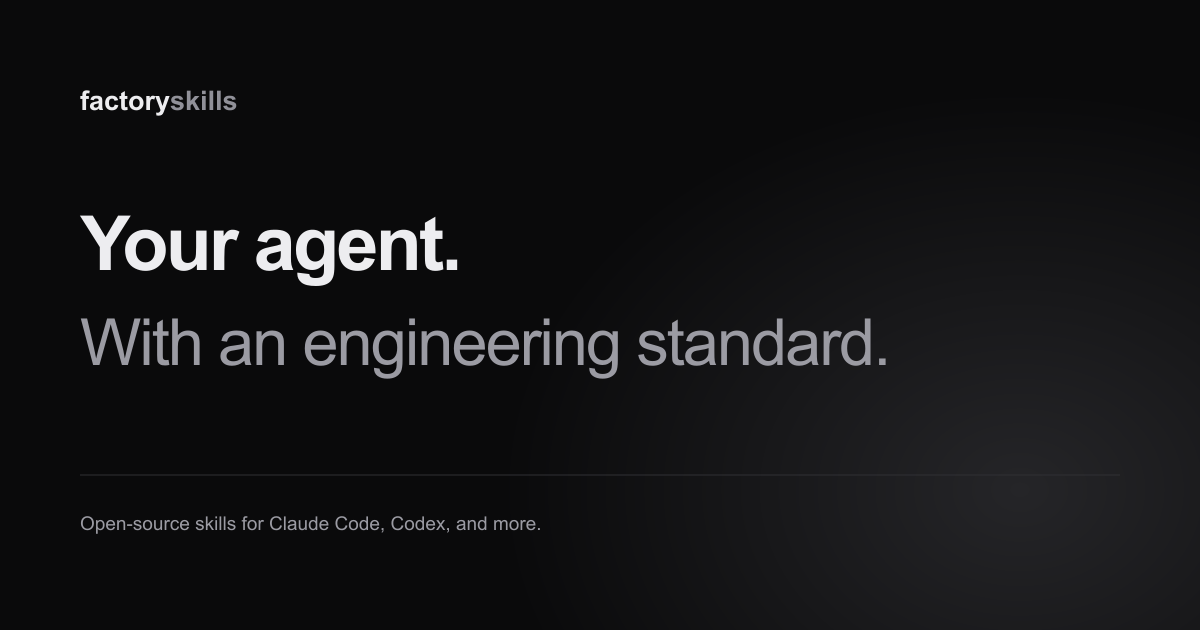
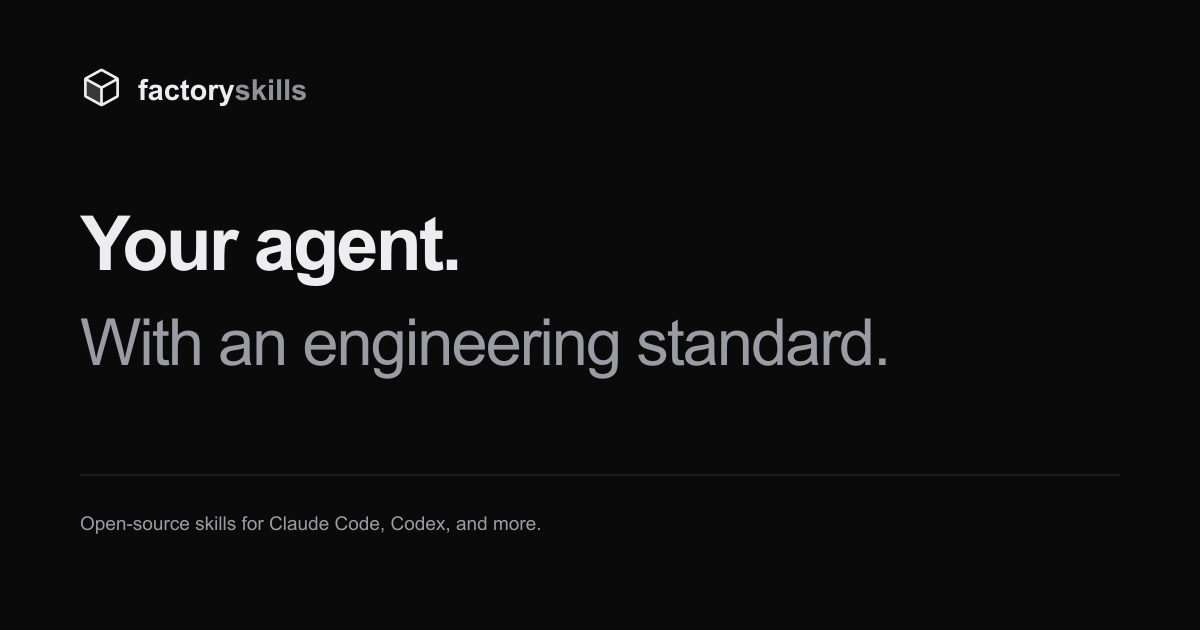
fix: unify Factory Skills branding and use official vendor marks

Changed region(s): [[0.7708, 0.6635, 0.925, 0.8746], [0.0617, 0.0905, 0.2775, 0.181]]

diff --git a/components/home.tsx b/components/home.tsx
@@ -1,7 +1,8 @@
 'use client';
 import { useState } from 'react';
 import Link from 'next/link';
-import { ArrowRight, ArrowUpRight, Code, Stack, Database, ShieldCheck, GitBranch, Lightning, Check, Plus, Terminal, GithubLogo, BookOpen, MagnifyingGlass, Compass, Crosshair, Cube } from '@phosphor-icons/react';
+import { ArrowRight, ArrowUpRight, Code, Stack, Database, ShieldCheck, GitBranch, Lightning, Check, Plus, Terminal, GithubLogo, BookOpen, MagnifyingGlass, Compass, Crosshair } from '@phosphor-icons/react';
+import { BrandMark } from './brand-mark';
 import { companions, skills, REPO, install } from '@/lib/skills';
 import { DemoDialog, InstallTabs } from './ui';
 const icons = {code:Code,stack:Stack,database:Database,shield:ShieldCheck,branch:GitBranch,lightning:Lightning};
@@ -9,9 +10,9 @@ const stages=[{name:'Understand', text:'Read the code before changing it.', icon
 export function Home(){const [filter,setFilter]=useState('All skills');const [query,setQuery]=useState('');const filtered=skills.filter(s=>(filter==='All skills'||s.category===filter)&&`${s.name} ${s.description}`.toLowerCase().includes(query.toLowerCase()));return <main id="main">
 <section className="hero container"><a className="announcement" href="#skills"><span>Built for the way you build</span><span className="announcement-divider"/>Explore the skills <ArrowRight size={13}/></a><h1>Your agent.<br/><span>With an engineering standard.</span></h1><div className="hero-bottom"><p>Turn capable AI into a careful engineer. Open-source skills that read your codebase, respect your patterns, and prove their work.</p><div className="hero-actions"><a className="button primary" href="#get-started">Start building better <ArrowRight size={16}/></a><DemoDialog/></div></div>
 <div className="hero-showcase"><div className="demo-window"><div className="demo-window-top"><span><Terminal size={14}/> A better way to build</span><span>implement-feature</span></div><div className="demo-image"><img src="/demo-static.svg" width="860" height="410" alt="Factory Skills example: install a skill, ask for a feature, and verify the result" fetchPriority="high"/></div><div className="demo-caption"><span>Read. Reuse. Implement. Verify.</span><a href="/skills/implement-feature/">Explore the workflow <ArrowUpRight size={13}/></a></div></div><div className="workflow-rail"><span className="eyebrow">ENGINEERING, BUILT IN</span>{stages.map((s,i)=><div className="workflow-stage" key={s.name}><div className="stage-icon"><s.icon size={21} weight="light"/></div><div><span className="stage-number">0{i+1}</span><h2>{s.name}</h2><p>{s.text}</p></div></div>)}<a className="text-link" href="#how-it-works">Under the hood <ArrowRight size={14}/></a></div></div>
-<div className="compatibility"><span>Works where you already build</span><div><span className="agent-word"><span className="claude-symbol">✳</span> Claude Code</span><span className="agent-word"><Cube size={24} weight="duotone"/>Codex</span><span className="other-agent">And other skill-compatible agents <ArrowUpRight size={12}/></span></div></div></section>
+<div className="compatibility"><span>Works where you already build</span><div><span className="agent-word"><span className="vendor-mark claude-mark" aria-hidden="true"/> Claude Code</span><span className="agent-word"><span className="vendor-mark openai-mark" aria-hidden="true"/>Codex</span><span className="other-agent">And other skill-compatible agents <ArrowUpRight size={12}/></span></div></div></section>
 <section id="skills" className="skills-section section container"><div className="section-heading"><span className="eyebrow">THE COLLECTION</span><h2>Small skills.<br/>A higher standard.</h2><p>From the first endpoint to your next big feature.<br className="desktop-break"/> Pick the workflow your project needs.</p></div><div className="collection-toolbar"><div className="filter-tabs" aria-label="Filter skills">{['All skills','Build','Foundation','Understand'].map(f=><button onClick={()=>setFilter(f)} key={f} aria-pressed={filter===f} className={filter===f?'active':''}>{f}{f==='All skills'&&<span>6</span>}</button>)}</div><label className="skill-search"><MagnifyingGlass size={16}/><input type="search" value={query} onChange={e=>setQuery(e.target.value)} placeholder="Find a skill…" aria-label="Search skills"/></label></div><div className="skill-grid">{filtered.map((s)=>{const Icon=icons[s.icon as keyof typeof icons];return <Link key={s.name} href={`/skills/${s.name}/`} className="skill-card"><div className="skill-card-top"><span className="skill-icon"><Icon size={23} weight="light"/></span><span className="skill-category">{s.category}</span><ArrowUpRight size={17} className="card-arrow"/></div><code>/{s.name}</code><h3>{s.title}</h3><p>{s.description}</p><span className="card-bottom">Explore skill <ArrowRight size={14}/></span></Link>})}</div>{filtered.length===0&&<div className="empty-state"><MagnifyingGlass size={28}/><h3>No matching skills</h3><p>Try another term or browse the full collection.</p><button className="button secondary" onClick={()=>{setQuery('');setFilter('All skills')}}>Show all skills</button></div>}<div className="collection-more"><Link className="text-link" href="/skills/">Browse every skill and all the examples <ArrowRight size={14}/></Link><Link className="text-link muted" href="/learn/">Learn the workflow <ArrowRight size={14}/></Link></div><div className="companions"><div><span className="companion-icon"><Plus size={19}/></span><h3>The rest of your toolkit.</h3><p>Companion skills for planning, checking, and refining.</p></div><div className="companion-links">{companions.map(([name,desc])=><a key={name} title={desc} href={`/skills/${name}/`}><code>/{name}</code><ArrowUpRight size={12}/></a>)}</div></div></section>
-<section id="how-it-works" className="principles-section section"><div className="container"><div className="section-heading"><span className="eyebrow">LESS CORRECTING. MORE CREATING.</span><h2>Good code starts<br/>before the first line.</h2><p>A skill is a reusable workflow for your coding agent.<br className="desktop-break"/> It brings the habits you expect from a thoughtful engineer.</p></div><div className="principle-layout"><div className="principle-visual"><div className="orbit orbit-one"/><div className="orbit orbit-two"/><div className="orbit orbit-three"/><div className="core-cube"><Cube size={63} weight="duotone"/></div><span className="orbit-label orbit-label-one"><BookOpen size={15}/>Your conventions</span><span className="orbit-label orbit-label-two"><GitBranch size={15}/>Your codebase</span><span className="orbit-label orbit-label-three"><Check size={15}/>Real checks</span><span className="visual-caption">Your project is the source of truth.</span></div><div className="principle-list">{[{icon:Compass,title:'Context before code.',body:'The agent finds similar features and traces how they work. Your conventions come first.'},{icon:Stack,title:'Reuse before reinventing.',body:'Existing helpers, components, and patterns get used. New abstractions need a reason.'},{icon:Crosshair,title:'Evidence before “done.”',body:'A check only counts when it runs. The agent reports what passed and what it couldn’t verify.'}].map(p=><div className="principle" key={p.title}><p.icon size={21}/><div><h3>{p.title}</h3><p>{p.body}</p></div></div>)}</div></div></div></section>
+<section id="how-it-works" className="principles-section section"><div className="container"><div className="section-heading"><span className="eyebrow">LESS CORRECTING. MORE CREATING.</span><h2>Good code starts<br/>before the first line.</h2><p>A skill is a reusable workflow for your coding agent.<br className="desktop-break"/> It brings the habits you expect from a thoughtful engineer.</p></div><div className="principle-layout"><div className="principle-visual"><div className="orbit orbit-one"/><div className="orbit orbit-two"/><div className="orbit orbit-three"/><div className="core-cube"><BrandMark size={63}/></div><span className="orbit-label orbit-label-one"><BookOpen size={15}/>Your conventions</span><span className="orbit-label orbit-label-two"><GitBranch size={15}/>Your codebase</span><span className="orbit-label orbit-label-three"><Check size={15}/>Real checks</span><span className="visual-caption">Your project is the source of truth.</span></div><div className="principle-list">{[{icon:Compass,title:'Context before code.',body:'The agent finds similar features and traces how they work. Your conventions come first.'},{icon:Stack,title:'Reuse before reinventing.',body:'Existing helpers, components, and patterns get used. New abstractions need a reason.'},{icon:Crosshair,title:'Evidence before “done.”',body:'A check only counts when it runs. The agent reports what passed and what it couldn’t verify.'}].map(p=><div className="principle" key={p.title}><p.icon size={21}/><div><h3>{p.title}</h3><p>{p.body}</p></div></div>)}</div></div></div></section>
 <section id="get-started" className="getting-started section container"><div className="get-started-copy"><span className="eyebrow">FROM HERE TO YOUR NEXT FEATURE</span><h2>One command.<br/>Better defaults.</h2><p>No new editor. No new platform.<br/>Add a skill to the agent you already use.</p><div className="mini-steps"><div><span>01</span><div><h3>Install a skill</h3><p>Choose a workflow. Add it to your project.</p></div></div><div><span>02</span><div><h3>Ask in plain words</h3><p>Use a slash command or mention the skill.</p></div></div><div><span>03</span><div><h3>Review the result</h3><p>Get a change that fits, with checks to back it up.</p></div></div></div><a className="text-link" href={`${REPO}#install-options`}>All installation options <ArrowUpRight size={14}/></a></div><InstallTabs/></section>
 <section id="questions" className="faq-section section container"><div className="section-heading"><span className="eyebrow">A FEW MORE DETAILS</span><h2>Good questions.</h2></div><div className="faq-list">{[['What exactly is an agent skill?','A skill is a set of reusable instructions and supporting resources that your agent loads for a task. Factory Skills gives those tasks a workflow: inspect the code, follow existing conventions, implement, and verify.'],['Which coding agents can I use?','The repository provides install commands for Claude Code and Codex. Other agents supported by the skills CLI can also use the workflows. Choose your agent during installation.'],['Can I use just one skill?','Yes. Every skill is independently installable. For larger work, hungry-jack coordinates companion skills; its documented install command includes those companions.'],['Will this override my project conventions?','Your project wins. The skills follow your codebase, AGENTS.md, and CLAUDE.md instructions before their own defaults. Review generated changes and check the agent’s verification report.'],['Is it free to use?','Factory Skills is open source under the MIT license. Your coding agent or model provider may charge for usage. Repository behavior evaluations also use billed model runs.']].map(([q,a])=><details key={q}><summary>{q}<Plus size={17}/></summary><p>{a}</p></details>)}</div></section>
-<section className="closing container"><div className="closing-top"><span className="brand-mark"><Cube size={29} weight="duotone"/></span><span className="eyebrow">OPEN SOURCE. OPEN TO YOU.</span></div><h2>Better agents.<br/><span>Built together.</span></h2><p>Use a skill. Make it better. Share what you learn.<br/>Good engineering is a collective effort.</p><div className="hero-actions"><a className="button primary" href={REPO} target="_blank" rel="noreferrer"><GithubLogo weight="fill" size={18}/>Explore on GitHub <ArrowUpRight size={15}/></a><Link className="button secondary" href="/contribute/">Become a contributor <ArrowRight size={15}/></Link></div><div className="license-note">Free to use. Yours to improve. MIT licensed.</div></section></main>}
+<section className="closing container"><div className="closing-top"><span className="brand-mark"><BrandMark size={29}/></span><span className="eyebrow">OPEN SOURCE. OPEN TO YOU.</span></div><h2>Better agents.<br/><span>Built together.</span></h2><p>Use a skill. Make it better. Share what you learn.<br/>Good engineering is a collective effort.</p><div className="hero-actions"><a className="button primary" href={REPO} target="_blank" rel="noreferrer"><GithubLogo weight="fill" size={18}/>Explore on GitHub <ArrowUpRight size={15}/></a><Link className="button secondary" href="/contribute/">Become a contributor <ArrowRight size={15}/></Link></div><div className="license-note">Free to use. Yours to improve. MIT licensed.</div></section></main>}

diff --git a/app/globals.css b/app/globals.css
@@ -17,3 +17,5 @@
 @media(max-width:1150px){.docs-layout{width:calc(100% - 56px);grid-template-columns:175px minmax(0,1fr);gap:40px;max-width:1000px}.docs-toc{display:none}.docs-sidebar a{font-size:10px}.docs-title h1{font-size:40px}.directory-grid{grid-template-columns:repeat(2,minmax(0,1fr))}.learn-orientation{gap:50px}}
 @media(max-width:767px){.docs-layout{width:calc(100% - 40px);display:block;padding-top:20px;padding-bottom:60px}.docs-sidebar{display:none}.docs-mobile-nav{display:block;margin-bottom:25px}.docs-mobile-nav details{border:1px solid var(--line);border-radius:7px;background:var(--surface)}.docs-mobile-nav summary{padding:12px 15px;min-height:44px;font-size:11px}.docs-mobile-nav nav{display:grid;max-height:55dvh;overflow-y:auto;padding:0 15px 12px}.docs-mobile-nav nav a{padding:11px 4px;font-size:12px;color:var(--muted)}.docs-mobile-nav nav a[aria-current]{color:var(--fg)}.docs-breadcrumb{font-size:10px;margin-bottom:28px}.docs-title{padding-bottom:28px}.docs-title h1{font-size:33px;letter-spacing:-1.4px}.docs-title>.docs-deck{font-size:18px;margin-top:20px}.docs-title>p:not(.docs-deck){font-size:13px;line-height:1.95;margin-top:20px}.docs-section{margin-top:35px;scroll-margin-top:90px}.docs-section>h2,.examples-heading h2{font-size:23px;letter-spacing:-.7px}.docs-section>p,.lesson-section>p{font-size:13px;line-height:1.95}.docs-note{padding:18px;margin-top:20px}.docs-note p{font-size:12px}.docs-process li{font-size:12px;padding-left:32px}.docs-article .copy-command{padding:13px}.docs-article .copy-command code{font-size:11px;line-height:1.95}.docs-article .copy-command .icon-button{width:34px;height:34px}.command-label{font-size:8px;line-height:1.8}.prompt-example{padding:20px 16px}.example-heading{gap:10px}.example-heading h3{font-size:14px}.prompt-example>p{font-size:12px}.examples-heading>span{font-size:9px;white-space:nowrap}.related-skills{grid-template-columns:1fr}.related-skills a{padding:21px}.related-skills p{font-size:12px}.related-skills code{font-size:13px}.docs-source{font-size:9px;line-height:1.8;gap:15px}.docs-source>span{max-width:200px}.docs-bottom-cta{padding:23px;align-items:flex-start;flex-direction:column;gap:19px}.directory-page,.learn-page{padding-top:42px;padding-bottom:60px}.directory-header h1{font-size:43px;letter-spacing:-2.3px}.directory-header>p{font-size:14px}.directory-toolbar{margin-top:33px}.directory-toolbar .filter-tabs{flex-wrap:wrap}.directory-toolbar .filter-tabs button{min-height:40px}.directory-card{padding:24px;min-height:245px}.directory-card h2{font-size:18px}.directory-help{padding:24px;margin-top:38px}.directory-help h2{font-size:23px}.collection-more{align-items:flex-start;flex-direction:column;gap:16px}.learn-hero{padding-bottom:40px}.learn-hero h1{font-size:49px;letter-spacing:-2.5px}.learn-hero>p{font-size:15px;line-height:1.85}.learn-hero .hero-actions{gap:20px}.learn-meta{gap:12px;font-size:9px;row-gap:9px}.learn-meta>span+span{padding-left:12px}.learn-orientation{grid-template-columns:1fr;gap:24px;padding-block:37px}.learn-orientation h2{font-size:32px;letter-spacing:-1.2px}.learn-orientation>div>p{font-size:13px}.learn-lessons{padding-top:45px;scroll-margin-top:90px}.learn-section-title>.eyebrow{font-size:8px;line-height:1.9}.learn-section-title h2{font-size:29px;letter-spacing:-1px}.lesson-grid{grid-template-columns:1fr;margin-top:25px;gap:13px}.lesson-card{min-height:0;padding:24px;grid-template-columns:25px 1fr;gap:12px}.lesson-card h3{font-size:19px}.lesson-card p{font-size:12px}.learn-start-note{padding-top:39px;margin-top:40px}.learn-start-note h2{font-size:29px;letter-spacing:-1px}.learn-start-note p{font-size:13px}.lesson-title h1{font-size:36px;letter-spacing:-1.6px}.lesson-progress{margin-top:25px}.lesson-progress a{min-height:7px}.lesson-pagination{gap:10px}.lesson-pagination a{padding:16px}.lesson-pagination strong{font-size:11px}.docs-takeaway{padding:23px}.docs-takeaway p{font-size:14px}}
 @media(max-width:480px){.directory-grid{grid-template-columns:1fr}.directory-card{min-height:240px}.directory-card h2{font-size:21px}.directory-card>p{font-size:13px}.directory-card>.text-link{font-size:11px}.learn-meta{max-width:310px}.learn-meta>span:last-child{border-left:0;padding-left:0;width:100%}}
+
+.factory-mark,.vendor-mark{display:inline-block;flex-shrink:0;background:currentColor;mask-repeat:no-repeat;mask-position:center;mask-size:contain;-webkit-mask-repeat:no-repeat;-webkit-mask-position:center;-webkit-mask-size:contain}.factory-mark{mask-image:url(/brand/factory-mark.svg);-webkit-mask-image:url(/brand/factory-mark.svg)}.vendor-mark{width:25px;height:25px}.claude-mark{mask-image:url(/brands/claude.svg);-webkit-mask-image:url(/brands/claude.svg)}.openai-mark{mask-image:url(/brands/openai.svg);-webkit-mask-image:url(/brands/openai.svg)}.core-cube>.factory-mark{transform:rotate(7deg)}

diff --git a/components/shell.tsx b/components/shell.tsx
@@ -1,10 +1,11 @@
 'use client';
 import Link from 'next/link';
 import { useEffect, useState } from 'react';
-import { ArrowUpRight, GithubLogo, Sun, Moon, List, X, Cube } from '@phosphor-icons/react';
+import { ArrowUpRight, GithubLogo, Sun, Moon, List, X } from '@phosphor-icons/react';
 import { usePathname } from 'next/navigation';
+import { BrandMark } from './brand-mark';
 import { REPO } from '@/lib/skills';
-export function Brand() { return <span className="brand"><span className="brand-mark"><Cube weight="duotone" size={23}/></span>factory<span className="brand-suffix">skills</span></span>; }
+export function Brand() { return <span className="brand"><span className="brand-mark"><BrandMark/></span>factory<span className="brand-suffix">skills</span></span>; }
 export function Header() {
  const [theme,setTheme]=useState('dark'); const [menu,setMenu]=useState(false); const path=usePathname();
  useEffect(()=>{setTheme(document.documentElement.dataset.theme || 'dark');},[]);

diff --git a/app/layout.tsx b/app/layout.tsx
@@ -9,6 +9,7 @@ export const metadata: Metadata = {
   title: { default: 'Factory Skills · Give your agent an engineering standard', template: '%s · Factory Skills' },
   description: 'Open-source skills that help coding agents read your codebase, follow your conventions, and verify their work. Built for Claude Code, Codex, and more.',
   openGraph: { type: 'website', title: 'Factory Skills', description: 'Your agent. With an engineering standard.', images: ['/opengraph-image.png'] },
+  icons: { icon: [{ url: '/brand/factory-mark.svg', type: 'image/svg+xml' }, { url: '/brand/favicon-32.png', sizes: '32x32', type: 'image/png' }], apple: '/brand/apple-touch-icon.png' },
   twitter: { card: 'summary_large_image' },
 };
 export default function RootLayout({ children }: { children: React.ReactNode }) {

diff --git a/components/brand-mark.tsx b/components/brand-mark.tsx
@@ -1,0 +1,1 @@
+export function BrandMark({size=23}:{size?:number}) { return <span className="factory-mark" style={{width:size,height:size}} aria-hidden="true"/>; }

diff --git a/public/brands/SOURCES.md b/public/brands/SOURCES.md
@@ -1,0 +1,10 @@
+# Third-party brand assets
+
+These marks identify compatible products. They remain the property of their respective owners and are not covered by this project's MIT license. Their display does not imply endorsement.
+
+- `claude.svg`: Claude symbol extracted from the official Claude wordmark on https://claude.com/product/claude-code (the standalone symbol occupies its original 125 × 125 area). The original path and color are preserved; the site displays a monochrome silhouette using a CSS mask.
+- `openai.svg`: OpenAI mark from the official header SVG at https://developers.openai.com/codex/. Used to identify OpenAI Codex. Original path and viewBox preserved. Brand guidance: https://openai.com/brand/.
+
+Retrieved 2026-11-12. Files are served locally rather than hotlinked.
+
+Factory Skills uses the Phosphor `Cube` duotone shape already used in the website, now shared through `/brand/factory-mark.svg`. Phosphor Icons is MIT licensed: https://github.com/phosphor-icons/core/blob/main/LICENSE.
